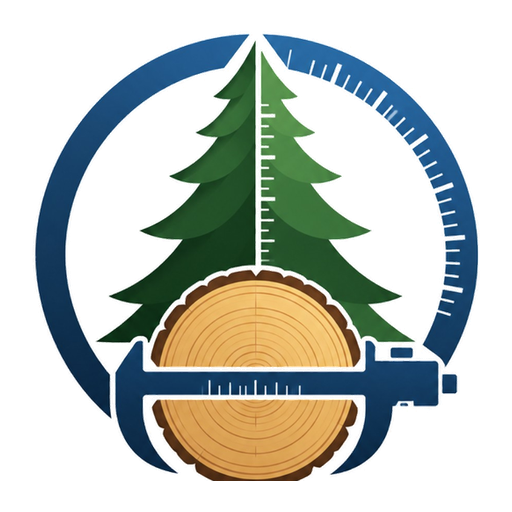
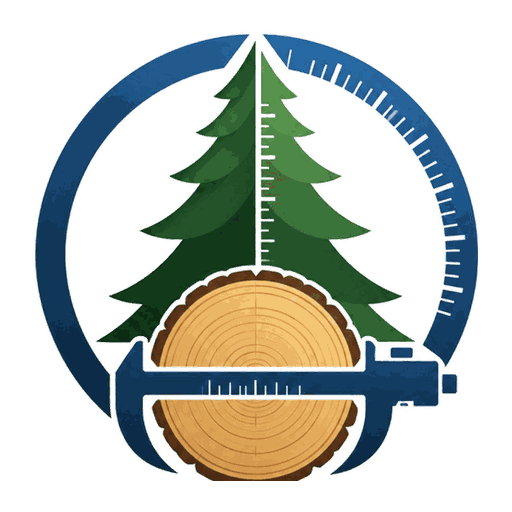
update87

Changed region(s): [[0.5, 0.3438, 0.5625, 0.375], [0.5938, 0.75, 0.625, 0.7812], [0.3125, 0.75, 0.3438, 0.7812]]

diff --git a/test2/js/mesaha-v189-performance.js b/test2/js/mesaha-v189-performance.js
@@ -1,0 +1,132 @@
+/* Mesaha İO v189 - performans paketi
+   Amaç: Giriş Modu/Yeni Kayıt sırasında ağır liste ve özet tekrarlarını azaltmak.
+   ORBİS XLS, kayıt veri modeli ve yedek formatı değiştirilmedi. */
+(function(){
+  'use strict';
+  var BUILD = 'v189';
+  var VISIBLE = 'Mesaha İO v2.18 Performans';
+  var SHORT = 'v2.18';
+
+  function safe(fn, fallback){ try { return fn(); } catch(_) { return fallback; } }
+  function now(){ return Date.now ? Date.now() : (new Date()).getTime(); }
+  function entryFastMode(){
+    return safe(function(){
+      return !!(document.body.classList.contains('inline-simple-v119') ||
+        document.body.classList.contains('clean-simple-open-v111') ||
+        (!document.body.classList.contains('show-records') && !document.body.classList.contains('show-admin')));
+    }, false);
+  }
+  function recordsVisible(){
+    return safe(function(){
+      var nav = document.getElementById('navRecords');
+      return !!(document.body.classList.contains('show-records') || (nav && nav.classList.contains('active')));
+    }, false);
+  }
+  function markRecordsChanged(){
+    window.__mesahaRecordsRevisionV189 = (Number(window.__mesahaRecordsRevisionV189) || 0) + 1;
+    window.__mesahaLastWriteMsV189 = now();
+  }
+
+  // Kayıt yazımlarını işaretle; aynı kayıt işleminde özet tekrarını tek hesaplamaya indir.
+  safe(function(){
+    if (typeof saveRecords === 'function' && !saveRecords.__v189Perf) {
+      var oldSave = saveRecords;
+      saveRecords = function(){
+        markRecordsChanged();
+        return oldSave.apply(this, arguments);
+      };
+      saveRecords.__v189Perf = true;
+      saveRecords.__old = oldSave;
+    }
+  });
+
+  // Özet kartları aynı revizyonda art arda çağrılırsa tekrar hesaplama yapma.
+  safe(function(){
+    if (typeof forceRefreshSummaryCards === 'function' && !forceRefreshSummaryCards.__v189Perf) {
+      var oldSummary = forceRefreshSummaryCards;
+      forceRefreshSummaryCards = function(){
+        var rev = Number(window.__mesahaRecordsRevisionV189) || 0;
+        var t = now();
+        if (forceRefreshSummaryCards.__lastRev === rev && (t - (forceRefreshSummaryCards.__lastAt || 0)) < 350) return;
+        var result = oldSummary.apply(this, arguments);
+        forceRefreshSummaryCards.__lastRev = rev;
+        forceRefreshSummaryCards.__lastAt = now();
+        return result;
+      };
+      forceRefreshSummaryCards.__v189Perf = true;
+      forceRefreshSummaryCards.__old = oldSummary;
+    }
+  });
+
+  // Günlük özet de hızlı girişte aynı revizyonda üst üste çalışmasın.
+  safe(function(){
+    if (typeof renderDailyWorkSummary === 'function' && !renderDailyWorkSummary.__v189Perf) {
+      var oldDaily = renderDailyWorkSummary;
+      renderDailyWorkSummary = function(){
+        var rev = Number(window.__mesahaRecordsRevisionV189) || 0;
+        var t = now();
+        if (renderDailyWorkSummary.__lastRev === rev && (t - (renderDailyWorkSummary.__lastAt || 0)) < 350) return;
+        var result = oldDaily.apply(this, arguments);
+        renderDailyWorkSummary.__lastRev = rev;
+        renderDailyWorkSummary.__lastAt = now();
+        return result;
+      };
+      renderDailyWorkSummary.__v189Perf = true;
+      renderDailyWorkSummary.__old = oldDaily;
+    }
+  });
+
+  // Kayıtlar sekmesine girilince ertelenen tabloyu tam çiz.
+  function forceRecordsRenderSoon(){
+    if (!recordsVisible()) return;
+    window.__mesahaForceFullRenderV189 = true;
+    setTimeout(function(){
+      safe(function(){ if (typeof render === 'function') render(); });
+      window.__mesahaForceFullRenderV189 = false;
+    }, 30);
+  }
+  safe(function(){
+    var nav = document.getElementById('navRecords');
+    if (nav && !nav.__v189PerfBound) {
+      nav.__v189PerfBound = true;
+      nav.addEventListener('click', forceRecordsRenderSoon, {passive:true});
+    }
+    document.addEventListener('click', function(ev){
+      var t = ev && ev.target;
+      if (t && t.closest && t.closest('#navRecords,[data-flow-tab="records"]')) forceRecordsRenderSoon();
+    }, {capture:true, passive:true});
+  });
+
+  // Hızlı girişte son kayıt kutucuğunu hafif ve seyrek yenile.
+  safe(function(){
+    if (typeof renderCleanRecentV111 === 'function' && !renderCleanRecentV111.__v189Perf) {
+      var oldCleanRecent = renderCleanRecentV111;
+      renderCleanRecentV111 = function(){
+        var t = now();
+        if (entryFastMode() && (t - (renderCleanRecentV111.__lastAt || 0)) < 180) return;
+        renderCleanRecentV111.__lastAt = t;
+        return oldCleanRecent.apply(this, arguments);
+      };
+      renderCleanRecentV111.__v189Perf = true;
+      renderCleanRecentV111.__old = oldCleanRecent;
+    }
+  });
+
+  // Görünür sürüm bilgisi.
+  safe(function(){
+    window.MESAHA_BUILD_INFO = Object.assign({}, window.MESAHA_BUILD_INFO || {}, {
+      fileVersion: BUILD,
+      visibleVersion: VISIBLE,
+      shortVersion: SHORT,
+      performanceBuildV189: true,
+      deferredRecordsTable: true,
+      summaryDedupe: true,
+      imageOptimized: true
+    });
+    var meta = document.querySelector('meta[name="mesaha-build"]');
+    if (meta) meta.setAttribute('content', BUILD);
+    document.title = VISIBLE;
+    Array.prototype.forEach.call(document.querySelectorAll('[data-app-version-short]'), function(el){ el.textContent = SHORT; });
+    Array.prototype.forEach.call(document.querySelectorAll('[data-app-version-build]'), function(el){ el.textContent = BUILD; });
+  });
+})();

diff --git a/test2/index.html b/test2/index.html
@@ -4,7 +4,7 @@
   <meta charset="UTF-8" />
   <meta name="viewport" content="width=device-width, initial-scale=1.0, viewport-fit=cover" />
   <title>Mesaha İO</title>
-  <meta name="mesaha-build" content="v188" />
+  <meta name="mesaha-build" content="v189" />
   
   <meta name="theme-color" content="#ffffff" />
   <meta name="apple-mobile-web-app-capable" content="yes" />
@@ -18,13 +18,13 @@
   <link rel="apple-touch-icon" href="./icon-192.png" />
   
 
-  <link rel="stylesheet" href="./css/style.css?v=188" />
-  <link rel="stylesheet" href="./css/dark.css?v=188" />
-  <link rel="stylesheet" href="./css/ios-ultra-entry-v186.css?v=188" />
-  <link rel="stylesheet" href="./css/mesaha-v187-final-fixes.css?v=188" />
-  <script src="./js/version.js?v=188"></script>
-  <script src="./js/admin-access.js?v=188"></script>
-  <script src="./js/startup-offline.js?v=188" defer></script>
+  <link rel="stylesheet" href="./css/style.css?v=189" />
+  <link rel="stylesheet" href="./css/dark.css?v=189" />
+  <link rel="stylesheet" href="./css/ios-ultra-entry-v186.css?v=189" />
+  <link rel="stylesheet" href="./css/mesaha-v187-final-fixes.css?v=189" />
+  <script src="./js/version.js?v=189"></script>
+  <script src="./js/admin-access.js?v=189"></script>
+  <script src="./js/startup-offline.js?v=189" defer></script>
 
   <style id="mesahaStartupV178Css">
     .mesaha-startup-v178{position:fixed;inset:0;z-index:2147483000;display:flex;align-items:center;justify-content:center;background:radial-gradient(circle at 30% 20%,#1b7a43 0,#0f5130 26%,#071b12 72%);color:#fff;padding:18px;font-family:system-ui,-apple-system,BlinkMacSystemFont,"Segoe UI",sans-serif;transition:opacity .28s ease,visibility .28s ease}.mesaha-startup-v178.hide{opacity:0;visibility:hidden;pointer-events:none}.mesaha-startup-card-v178{width:min(440px,94vw);background:rgba(255,255,255,.10);border:1px solid rgba(255,255,255,.18);border-radius:28px;padding:22px;box-shadow:0 28px 85px rgba(0,0,0,.35);backdrop-filter:blur(14px);-webkit-backdrop-filter:blur(14px)}.mesaha-startup-logo-v178{display:flex;gap:12px;align-items:center;margin-bottom:14px}.mesaha-startup-logo-v178 img{width:54px;height:54px;border-radius:18px;background:#fff;object-fit:contain;padding:5px}.mesaha-startup-logo-v178 h2{margin:0;font-size:22px;letter-spacing:.2px}.mesaha-startup-logo-v178 p{margin:3px 0 0;color:rgba(255,255,255,.72);font-weight:750;font-size:13px}.mesaha-startup-spinner-v178{width:34px;height:34px;border-radius:999px;border:4px solid rgba(255,255,255,.22);border-top-color:#fff;animation:mesahaSpinV178 .85s linear infinite;margin:10px auto 16px}.mesaha-startup-status-v178{text-align:center;font-weight:900;margin:0 0 13px;font-size:15px}.mesaha-startup-steps-v178{display:grid;gap:8px}.mesaha-startup-step-v178{display:flex;align-items:center;gap:9px;background:rgba(255,255,255,.08);border:1px solid rgba(255,255,255,.10);border-radius:15px;padding:9px 11px;color:rgba(255,255,255,.82);font-size:13px;font-weight:800}.mesaha-startup-step-v178 .step-icon{width:22px;height:22px;border-radius:999px;display:inline-flex;align-items:center;justify-content:center;background:rgba(255,255,255,.14);font-size:12px;font-weight:950}.mesaha-startup-step-v178.done{color:#dcfce7}.mesaha-startup-step-v178.done .step-icon{background:#22c55e;color:#052e16}.mesaha-startup-step-v178.active .step-icon{background:#facc15;color:#422006}.mesaha-startup-step-v178.warn{color:#ffedd5}.mesaha-startup-step-v178.warn .step-icon{background:#fb923c;color:#431407}.mesaha-startup-log-v178{min-height:18px;margin-top:12px;color:rgba(255,255,255,.62);font-size:11px;font-weight:750;line-height:1.35}.mesaha-startup-actions-v178{display:none;gap:8px;flex-wrap:wrap;margin-top:13px}.mesaha-startup-actions-v178 button{flex:1 1 150px;border:0;border-radius:14px;padding:10px 12px;font-weight:950;background:#fff;color:#14532d}.mesaha-startup-actions-v178 button.secondary{background:rgba(255,255,255,.14);color:#fff;border:1px solid rgba(255,255,255,.20)}.mesaha-net-badge-v178{display:inline-flex;align-items:center;justify-content:center;min-width:92px;padding:7px 11px;border-radius:999px;font-size:12px;font-weight:950;background:#ecfdf5;color:#166534;border:1px solid rgba(22,101,52,.18);box-shadow:0 8px 22px rgba(15,23,42,.08)}.mesaha-net-badge-v178.offline{background:#fff7ed;color:#9a3412;border-color:#fed7aa}.mesaha-net-badge-v178.online:before{content:"●";font-size:9px;margin-right:6px;color:#16a34a}.mesaha-net-badge-v178.offline:before{content:"●";font-size:9px;margin-right:6px;color:#f97316}@keyframes mesahaSpinV178{to{transform:rotate(360deg)}}
@@ -215,8 +215,8 @@
       <div class="brand app-brand-v143">
         <img class="brand-logo-v143" src="./mesaha_logo.png" alt="Mesaha İO logosu" loading="eager" />
         <div class="brand-copy-v143">
-          <h1 data-app-version-short>v2.16</h1>
-          <span data-app-version-build>v188</span>
+          <h1 data-app-version-short>v2.18</h1>
+          <span data-app-version-build>v189</span>
         </div>
       </div>
       <div id="activeUserBadge" class="active-user-badge" role="button" tabindex="0" title="Kullanıcı panelini aç" style="display:none"></div>
@@ -668,19 +668,20 @@
     <button id="navRecords" type="button">Kayıtlar</button>
     <button id="navGuide" type="button">Kullanım Kılavuzu</button>
   </nav>
-  <script src="./js/core.js?v=188"></script>
-  <script src="./js/admin-cloud.js?v=188"></script>
-  <script src="./js/tree-entry.js?v=188"></script>
-  <script src="./js/ui-mobile.js?v=188"></script>
-  <script src="./js/records-filters.js?v=188"></script>
-  <script src="./js/backup-storage.js?v=188"></script>
-  <script src="./js/keyboard-filters.js?v=188"></script>
-  <script src="./js/cutters.js?v=188"></script>
-  <script src="./js/filters-stability.js?v=188"></script>
-  <script src="./js/stability-base.js?v=188"></script>
-  <script src="./js/app-stability.js?v=188"></script>
-  <script src="./js/auto-update.js?v=188"></script>
-  <script src="./js/ios-ultra-entry-v186.js?v=188"></script>
-  <script src="./js/mesaha-v187-final-fixes.js?v=188"></script>
+  <script src="./js/core.js?v=189"></script>
+  <script src="./js/admin-cloud.js?v=189"></script>
+  <script src="./js/tree-entry.js?v=189"></script>
+  <script src="./js/ui-mobile.js?v=189"></script>
+  <script src="./js/records-filters.js?v=189"></script>
+  <script src="./js/backup-storage.js?v=189"></script>
+  <script src="./js/keyboard-filters.js?v=189"></script>
+  <script src="./js/cutters.js?v=189"></script>
+  <script src="./js/filters-stability.js?v=189"></script>
+  <script src="./js/stability-base.js?v=189"></script>
+  <script src="./js/app-stability.js?v=189"></script>
+  <script src="./js/auto-update.js?v=189"></script>
+  <script src="./js/ios-ultra-entry-v186.js?v=189"></script>
+  <script src="./js/mesaha-v187-final-fixes.js?v=189"></script>
+  <script src="./js/mesaha-v189-performance.js?v=189"></script>
 </body>
 </html>

diff --git a/test2/service-worker.js b/test2/service-worker.js
@@ -1,7 +1,7 @@
-importScripts('./js/version.js?v=188');
-const CACHE_NAME = (self.MESAHA_VERSION && self.MESAHA_VERSION.cacheName) || 'mesaha-app-v188-lite-clean';
+importScripts('./js/version.js?v=189');
+const CACHE_NAME = (self.MESAHA_VERSION && self.MESAHA_VERSION.cacheName) || 'mesaha-app-v189-performance';
 
-// v188 hafif temizlik:
+// v189 performans + hafif temizlik:
 // Sadece ana uygulama için gerekli dosyalar ön cache'e alınır.
 // Admin/test dosyaları ve çift assets görselleri ilk açılış yükünü şişirmesin diye çıkarıldı.
 const CORE_ASSETS = [
@@ -13,27 +13,28 @@ const CORE_ASSETS = [
   './mesaha_logo.png',
   './icon-192.png',
   './icon-512.png',
-  './css/style.css?v=188',
-  './css/dark.css?v=188',
-  './css/ios-ultra-entry-v186.css?v=188',
-  './css/mesaha-v187-final-fixes.css?v=188',
-  './js/version.js?v=188',
-  './js/admin-access.js?v=188',
-  './js/startup-offline.js?v=188',
-  './js/core.js?v=188',
-  './js/admin-cloud.js?v=188',
-  './js/tree-entry.js?v=188',
-  './js/ui-mobile.js?v=188',
-  './js/records-filters.js?v=188',
-  './js/backup-storage.js?v=188',
-  './js/keyboard-filters.js?v=188',
-  './js/cutters.js?v=188',
-  './js/filters-stability.js?v=188',
-  './js/stability-base.js?v=188',
-  './js/app-stability.js?v=188',
-  './js/auto-update.js?v=188',
-  './js/ios-ultra-entry-v186.js?v=188',
-  './js/mesaha-v187-final-fixes.js?v=188'
+  './css/style.css?v=189',
+  './css/dark.css?v=189',
+  './css/ios-ultra-entry-v186.css?v=189',
+  './css/mesaha-v187-final-fixes.css?v=189',
+  './js/version.js?v=189',
+  './js/admin-access.js?v=189',
+  './js/startup-offline.js?v=189',
+  './js/core.js?v=189',
+  './js/admin-cloud.js?v=189',
+  './js/tree-entry.js?v=189',
+  './js/ui-mobile.js?v=189',
+  './js/records-filters.js?v=189',
+  './js/backup-storage.js?v=189',
+  './js/keyboard-filters.js?v=189',
+  './js/cutters.js?v=189',
+  './js/filters-stability.js?v=189',
+  './js/stability-base.js?v=189',
+  './js/app-stability.js?v=189',
+  './js/auto-update.js?v=189',
+  './js/ios-ultra-entry-v186.js?v=189',
+  './js/mesaha-v187-final-fixes.js?v=189',
+  './js/mesaha-v189-performance.js?v=189'
 ];
 
 const FALLBACK_INDEX = './index.html';

diff --git a/test2/admin.html b/test2/admin.html
@@ -5,19 +5,19 @@
 <meta charset="utf-8"/>
 <meta content="width=device-width, initial-scale=1.0, viewport-fit=cover" name="viewport"/>
 <title>Mesaha İO Admin</title>
-<meta content="v188" name="mesaha-build"/>
+<meta content="v189" name="mesaha-build"/>
 <meta content="#ffffff" name="theme-color"/>
 <meta content="yes" name="apple-mobile-web-app-capable"/>
 <meta content="Mesaha App" name="apple-mobile-web-app-title"/>
 <meta content="default" name="apple-mobile-web-app-status-bar-style"/>
 <link href="./manifest.json" rel="manifest"/>
 <link href="./icon-192.png" rel="apple-touch-icon"/>
-<link href="./css/style.css?v=188" rel="stylesheet"/>
-<link href="./css/dark.css?v=188" rel="stylesheet"/>
-<link href="./css/ios-ultra-entry-v186.css?v=188" rel="stylesheet"/>
-  <script src="./js/version.js?v=188"></script>
-  <script src="./js/admin-access.js?v=188"></script>
-  <script src="./js/startup-offline.js?v=188" defer></script>
+<link href="./css/style.css?v=189" rel="stylesheet"/>
+<link href="./css/dark.css?v=189" rel="stylesheet"/>
+<link href="./css/ios-ultra-entry-v186.css?v=189" rel="stylesheet"/>
+  <script src="./js/version.js?v=189"></script>
+  <script src="./js/admin-access.js?v=189"></script>
+  <script src="./js/startup-offline.js?v=189" defer></script>
 
   <style id="mesahaStartupV178Css">
     .mesaha-startup-v178{position:fixed;inset:0;z-index:2147483000;display:flex;align-items:center;justify-content:center;background:radial-gradient(circle at 30% 20%,#1b7a43 0,#0f5130 26%,#071b12 72%);color:#fff;padding:18px;font-family:system-ui,-apple-system,BlinkMacSystemFont,"Segoe UI",sans-serif;transition:opacity .28s ease,visibility .28s ease}.mesaha-startup-v178.hide{opacity:0;visibility:hidden;pointer-events:none}.mesaha-startup-card-v178{width:min(440px,94vw);background:rgba(255,255,255,.10);border:1px solid rgba(255,255,255,.18);border-radius:28px;padding:22px;box-shadow:0 28px 85px rgba(0,0,0,.35);backdrop-filter:blur(14px);-webkit-backdrop-filter:blur(14px)}.mesaha-startup-logo-v178{display:flex;gap:12px;align-items:center;margin-bottom:14px}.mesaha-startup-logo-v178 img{width:54px;height:54px;border-radius:18px;background:#fff;object-fit:contain;padding:5px}.mesaha-startup-logo-v178 h2{margin:0;font-size:22px;letter-spacing:.2px}.mesaha-startup-logo-v178 p{margin:3px 0 0;color:rgba(255,255,255,.72);font-weight:750;font-size:13px}.mesaha-startup-spinner-v178{width:34px;height:34px;border-radius:999px;border:4px solid rgba(255,255,255,.22);border-top-color:#fff;animation:mesahaSpinV178 .85s linear infinite;margin:10px auto 16px}.mesaha-startup-status-v178{text-align:center;font-weight:900;margin:0 0 13px;font-size:15px}.mesaha-startup-steps-v178{display:grid;gap:8px}.mesaha-startup-step-v178{display:flex;align-items:center;gap:9px;background:rgba(255,255,255,.08);border:1px solid rgba(255,255,255,.10);border-radius:15px;padding:9px 11px;color:rgba(255,255,255,.82);font-size:13px;font-weight:800}.mesaha-startup-step-v178 .step-icon{width:22px;height:22px;border-radius:999px;display:inline-flex;align-items:center;justify-content:center;background:rgba(255,255,255,.14);font-size:12px;font-weight:950}.mesaha-startup-step-v178.done{color:#dcfce7}.mesaha-startup-step-v178.done .step-icon{background:#22c55e;color:#052e16}.mesaha-startup-step-v178.active .step-icon{background:#facc15;color:#422006}.mesaha-startup-step-v178.warn{color:#ffedd5}.mesaha-startup-step-v178.warn .step-icon{background:#fb923c;color:#431407}.mesaha-startup-log-v178{min-height:18px;margin-top:12px;color:rgba(255,255,255,.62);font-size:11px;font-weight:750;line-height:1.35}.mesaha-startup-actions-v178{display:none;gap:8px;flex-wrap:wrap;margin-top:13px}.mesaha-startup-actions-v178 button{flex:1 1 150px;border:0;border-radius:14px;padding:10px 12px;font-weight:950;background:#fff;color:#14532d}.mesaha-startup-actions-v178 button.secondary{background:rgba(255,255,255,.14);color:#fff;border:1px solid rgba(255,255,255,.20)}.mesaha-net-badge-v178{display:inline-flex;align-items:center;justify-content:center;min-width:92px;padding:7px 11px;border-radius:999px;font-size:12px;font-weight:950;background:#ecfdf5;color:#166534;border:1px solid rgba(22,101,52,.18);box-shadow:0 8px 22px rgba(15,23,42,.08)}.mesaha-net-badge-v178.offline{background:#fff7ed;color:#9a3412;border-color:#fed7aa}.mesaha-net-badge-v178.online:before{content:"●";font-size:9px;margin-right:6px;color:#16a34a}.mesaha-net-badge-v178.offline:before{content:"●";font-size:9px;margin-right:6px;color:#f97316}@keyframes mesahaSpinV178{to{transform:rotate(360deg)}}
@@ -640,18 +640,19 @@
 <button id="navGuide" type="button">Kullanım Kılavuzu</button>
 <button id="navAdmin" style="display:none" type="button">Admin Paneli</button>
 </nav>
-<script src="./js/core.js?v=188"></script>
-<script src="./js/admin-cloud.js?v=188"></script>
-<script src="./js/tree-entry.js?v=188"></script>
-<script src="./js/ui-mobile.js?v=188"></script>
-<script src="./js/records-filters.js?v=188"></script>
-<script src="./js/backup-storage.js?v=188"></script>
-<script src="./js/keyboard-filters.js?v=188"></script>
-<script src="./js/cutters.js?v=188"></script>
-<script src="./js/stability-base.js?v=188"></script>
-<script src="./js/control-test.js?v=188"></script>
-<script src="./js/stability-admin.js?v=188"></script>
-<script src="./js/offline-admin.js?v=188"></script>
-<script src="./js/app-stability.js?v=188"></script>
+<script src="./js/core.js?v=189"></script>
+<script src="./js/admin-cloud.js?v=189"></script>
+<script src="./js/tree-entry.js?v=189"></script>
+<script src="./js/ui-mobile.js?v=189"></script>
+<script src="./js/records-filters.js?v=189"></script>
+<script src="./js/backup-storage.js?v=189"></script>
+<script src="./js/keyboard-filters.js?v=189"></script>
+<script src="./js/cutters.js?v=189"></script>
+<script src="./js/stability-base.js?v=189"></script>
+<script src="./js/control-test.js?v=189"></script>
+<script src="./js/stability-admin.js?v=189"></script>
+<script src="./js/offline-admin.js?v=189"></script>
+<script src="./js/app-stability.js?v=189"></script>
+  <script src="./js/mesaha-v189-performance.js?v=189"></script>
 </body>
 </html>

diff --git a/test2/js/core.js b/test2/js/core.js
@@ -3380,8 +3380,28 @@ ${verified ? "Yedek listede göründü." : "Yedek gönderildi; listede görünme
 
 
     function render() {
+      const recordsVisibleV189 = !!(document.body.classList.contains("show-records") || (els.navRecords && els.navRecords.classList.contains("active")));
+
+      // v189 performans: Giriş Modu / Yeni Kayıt açıkken ağır kayıt tablosunu yeniden çizme.
+      // Tablo sadece Kayıtlar sekmesine girildiğinde üretilir; özetler ve sayaçlar güncel kalır.
+      if (!recordsVisibleV189 && !window.__mesahaForceFullRenderV189) {
+        cleanSelectedRecordIds();
+        if (els.recordsBody) {
+          els.recordsBody.innerHTML = "";
+          els.recordsBody.dataset.deferredRenderV189 = "1";
+        }
+        if (els.recordsFoot) els.recordsFoot.innerHTML = "";
+        if (els.emptyState) els.emptyState.style.display = "none";
+        if (els.recordCount) els.recordCount.textContent = `${state.records.length} kayıt`;
+        renderRecentBarcodes();
+        renderDailyWorkSummary();
+        forceRefreshSummaryCards();
+        return;
+      }
+
       const filtered = getFilteredRecords();
       cleanSelectedRecordIds();
+      if (els.recordsBody) delete els.recordsBody.dataset.deferredRenderV189;
 
       els.recordsBody.innerHTML = filtered.map((r) => {
         const sys = recordToSystemRow(r);

diff --git a/test2/js/version.js b/test2/js/version.js
@@ -2,15 +2,15 @@
   'use strict';
   var info = {
     appName: 'Mesaha İO',
-    version: 'v188',
-    build: 'v188',
-    assetVersion: '188',
-    visibleVersion: 'Mesaha İO v2.17 Hafif',
-    shortVersion: 'v2.17',
-    name: 'Mesaha İO v2.17 Hafif',
-    cacheName: 'mesaha-app-v188-lite-clean',
+    version: 'v189',
+    build: 'v189',
+    assetVersion: '189',
+    visibleVersion: 'Mesaha İO v2.18 Performans',
+    shortVersion: 'v2.18',
+    name: 'Mesaha İO v2.18 Performans',
+    cacheName: 'mesaha-app-v189-performance',
     builtAt: '2026-06-21',
-    notes: 'Kayıt mesajı klavye üstünde kayan detaylı bildirim oldu; son boy korunması güçlendirildi; ana ekranda son barkod/son ölçüm kartı gizlendi; Giriş Modu Kaydet butonu sol blur yapıldı; kayıtlar ekranında Mesaha İndir/Yedek Al öne alındı; manuel güncelleme akışı sağlamlaştırıldı. ORBİS XLS çekirdeğine dokunulmadı. v188 hafif temizlik: eski kullanılmayan dosyalar ve çift görseller kaldırıldı; ön cache sadeleştirildi.'
+    notes: 'v188 hafif temizlik üzerine v189 performans paketi: giriş modunda ağır kayıt tablosu ertelendi; kayıtlar sekmesine girince tam çizim yapılır; özet/günlük hesaplar aynı kayıt işleminde tekrarlanmaz; ikon ve logo PNG dosyaları optimize edildi. ORBİS XLS çekirdeği, kayıt veri modeli ve yedek formatı değiştirilmedi.'
   };
   root.MESAHA_VERSION = info;
   root.MESAHA_VERSION_TEXT = info.visibleVersion;
@@ -24,7 +24,8 @@
     excelLocked: true,
     iosInputLagFixed: true,
     finalFixesV187: true,
-    liteCleanupV188: true
+    liteCleanupV188: true,
+    performanceBuildV189: true
   });
   function applyVersionText(){
     try{